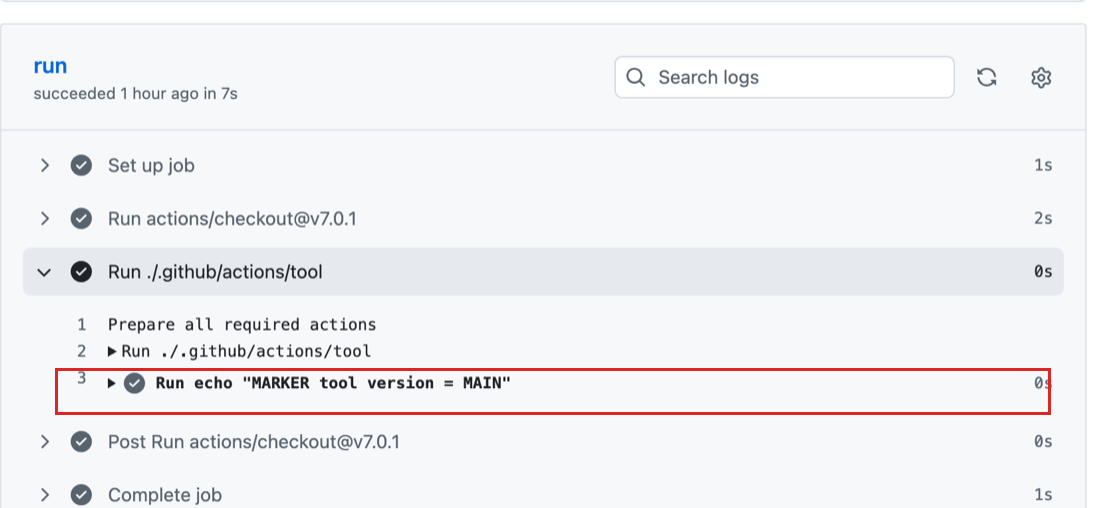
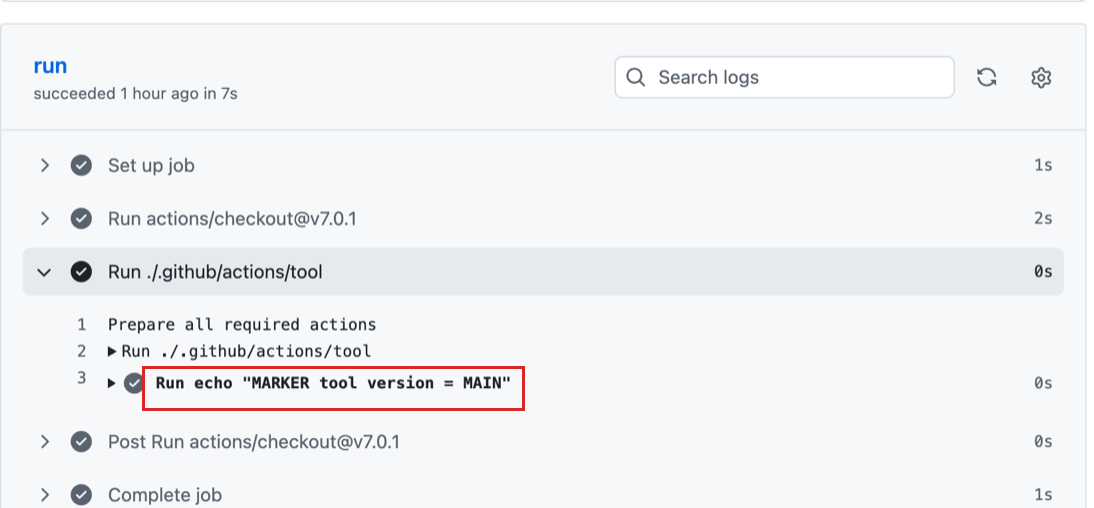
Fix post images and tables, improve post metadata (#5)
* Fix post images and tables, improve post metadata, date the CI post 14 Nov

* Trim the about page and name the AI work

Changed region(s): [[0.0311, 0.7972, 0.9634, 0.8268], [0.0622, 0.7087, 0.9634, 0.7382]]

diff --git a/about/index.html b/about/index.html
@@ -1,57 +1,40 @@
 ---
 layout: default
-title: About — Sara Elzayat
-description: About Sara Elzayat — Platform & Site Reliability Engineer.
+title: About · Sara Elzayat
+description: About Sara Elzayat, Platform and Site Reliability Engineer.
 ---
 
 <div class="about">
   <h1>About</h1>
 
   <p>
-    I'm Sara, a Platform &amp; Site Reliability Engineer with 9+ years building and operating
-    cloud and Kubernetes platforms — the infrastructure, reliability and developer experience that
-    products depend on.
+    I'm Sara. I've spent 9 years building and running cloud and Kubernetes platforms. At
+    Zencargo I own the infrastructure end to end, from cloud and CI/CD through reliability,
+    security and compliance, and I build the AI layer on top of it: an AI gateway, MCP servers
+    and engineering agents with RAG, evals and guardrails.
   </p>
 
   <p>
-    I'm currently at Zencargo, working across the cloud and Kubernetes
-    platform on GCP — reliability, security, developer experience and cost. That spans Kubernetes
-    operations and upgrades, observability, edge security, self-service tooling that cuts infra
-    toil for product teams, disaster recovery, and bringing AI into platform work through internal
-    agents and tooling.
+    Right now I'm going deeper on LLM inference and agent security. Most of what I write about
+    comes out of that.
   </p>
 
-  <h2>Experience</h2>
+  <h2>Before that</h2>
   <div class="entry">
-    <h3>Senior Platform Engineer — Zencargo</h3>
-    <p>Nov 2025 – Present · Cloud &amp; Kubernetes platform on GCP — developer experience, reliability, security, cost</p>
+    <h3>Zondax</h3>
+    <p>2024 to 2025 · Go gRPC services, ClickHouse and OpenTelemetry pipelines on bare metal</p>
   </div>
   <div class="entry">
-    <h3>Site Reliability Engineer — Zondax</h3>
-    <p>Feb 2024 – Oct 2025 · Go gRPC services, 5TB+ ClickHouse, OpenTelemetry pipelines, on bare metal</p>
+    <h3>Weaveworks</h3>
+    <p>2020 to 2023 · Weave GitOps Enterprise, Kubernetes operators, multi-cloud</p>
   </div>
   <div class="entry">
-    <h3>Software Engineer — Weaveworks</h3>
-    <p>Apr 2020 – Dec 2023 · Weave GitOps Enterprise, Kubernetes operators, multi-cloud</p>
-  </div>
-  <div class="entry">
-    <h3>Cloud Engineer — Vodafone</h3>
-    <p>Jun 2017 – Apr 2020 · Kubernetes re-platforming, hybrid cloud, Terraform</p>
-  </div>
-  <div class="entry">
-    <h3>Teaching Assistant — October 6 University</h3>
-    <p>Feb 2016 – Oct 2016 · Algorithms &amp; data structures, computer graphics, information systems</p>
+    <h3>Vodafone</h3>
+    <p>2017 to 2020 · Kubernetes re-platforming, hybrid cloud, Terraform</p>
   </div>
 
-  <h2>Education</h2>
-  <div class="entry">
-    <h3>Postgraduate Diploma, Cloud Platform Development — ITI</h3>
-    <p>2016 – 2017 · Information Technology Institute · Grade A, top of class</p>
-  </div>
-  <div class="entry">
-    <h3>BSc Computer Science — October 6 University</h3>
-    <p>2011 – 2015</p>
-  </div>
-
-  <p style="margin-top:2rem">Find me on <a href="https://www.linkedin.com/in/sarazayat/">LinkedIn</a> and <a href="https://github.com/sarataha">GitHub</a>.</p>
+  <p style="margin-top:2rem">
+    The full history is on <a href="https://www.linkedin.com/in/sarazayat/">LinkedIn</a>.
+    Code is on <a href="https://github.com/sarataha">GitHub</a>.
+  </p>
 </div>

diff --git a/_layouts/default.html b/_layouts/default.html
@@ -3,15 +3,16 @@
   <head>
     <meta charset="utf-8">
     <meta name="viewport" content="width=device-width, initial-scale=1">
-    <title>{{ page.title }}</title>
+    <title>{% if page.layout == 'post' %}{{ page.title }} · {{ site.name }}{% else %}{{ page.title }}{% endif %}</title>
     <meta name="description" content="{{ page.description | default: 'Sara Elzayat — Platform & Site Reliability Engineer working on Kubernetes infrastructure, observability and production AI systems.' }}">
     <meta name="author" content="Sara Elzayat">
 
-    <meta property="og:type" content="website">
+    <meta property="og:type" content="{% if page.layout == 'post' %}article{% else %}website{% endif %}">
     <meta property="og:title" content="{{ page.title }}">
     <meta property="og:description" content="{{ page.description | default: 'Platform & Site Reliability Engineer — Kubernetes, observability and production AI systems.' }}">
-    <meta property="og:url" content="https://sarataha.github.io{{ page.url }}">
+    <meta property="og:url" content="{{ site.url }}{{ page.url }}">
     <meta name="twitter:card" content="summary">
+    {% if page.layout == 'post' %}<meta property="article:published_time" content="{{ page.date | date_to_xmlschema }}">{% endif %}
 
     <link rel="canonical" href="https://sarataha.github.io{{ page.url }}">
     <link rel="alternate" type="application/atom+xml" title="Sara Elzayat — Blog" href="/blog/atom.xml">

diff --git a/css/main.css b/css/main.css
@@ -138,5 +138,26 @@ ul.posts .date { color: var(--muted); font-size: 0.9rem; margin-right: 0.5rem; }
 .post { margin-top: 1rem; }
 .meta { color: var(--muted); font-size: 0.9rem; margin-top: -0.25rem; }
 
+.post img {
+  max-width: 100%;
+  height: auto;
+  display: block;
+  margin: 1.5rem 0;
+  border: 1px solid var(--border);
+  border-radius: 6px;
+}
+
+.post table { border-collapse: collapse; max-width: 100%; margin: 1.5rem 0; font-size: 0.95rem; }
+.post th, .post td { border-bottom: 1px solid var(--border); padding: 0.4rem 1rem 0.4rem 0; }
+.post thead th { border-bottom: 2px solid var(--border); }
+.post tbody tr:last-child td { border-bottom: 0; }
+
+.post blockquote {
+  margin: 1.5rem 0;
+  padding-left: 1rem;
+  border-left: 3px solid var(--border);
+  color: var(--muted);
+}
+
 code, pre { font-family: ui-monospace, SFMono-Regular, Menlo, monospace; font-size: 0.9em; }
 pre { background: rgba(127,127,127,0.12); padding: 1rem; border-radius: 8px; overflow-x: auto; }

diff --git a/_layouts/post.html b/_layouts/post.html
@@ -2,7 +2,7 @@
 layout: default
 ---
 <h1>{{ page.title }}</h1>
-<p class="meta">{{ page.date | date_to_string }}</p>
+<p class="meta"><time datetime="{{ page.date | date_to_xmlschema }}">{{ page.date | date_to_string }}</time></p>
 
 <div class="post">
   {{ content }}

diff --git a/_posts/2026-11-14-changing-ci-without-the-workflows-permission.md b/_posts/2026-11-14-changing-ci-without-the-workflows-permission.md
@@ -1,7 +1,8 @@
 ---
 layout: post
 title: "Changing CI without the Workflows permission"
-date: 2026-11-15
+date: 2026-11-14
+description: "A GitHub App without the Workflows permission can't touch .github/workflows but can still change the composite actions CI runs."
 ---
 
 A GitHub App installed without the Workflows permission can't push to `.github/workflows` but it can push to `.github/actions` and CI runs those composite actions on any branch it builds. So an agent holding that token can change what CI executes on its own branch before anyone reviews the PR.
